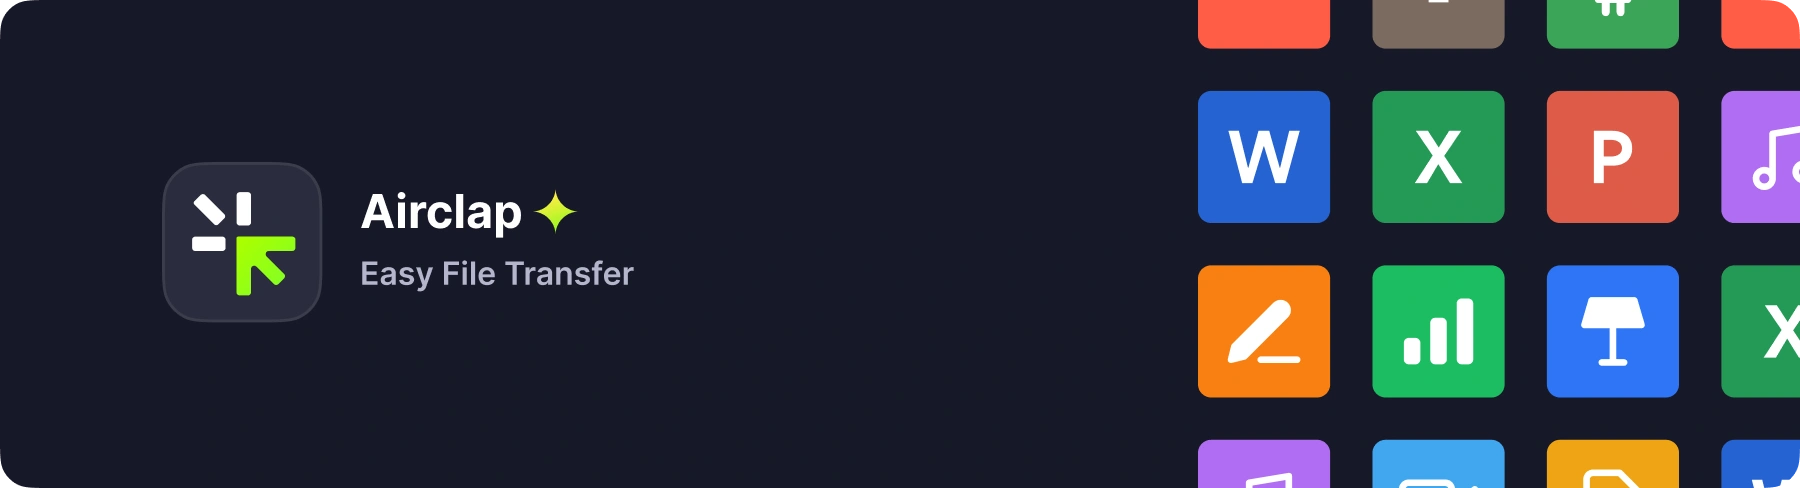
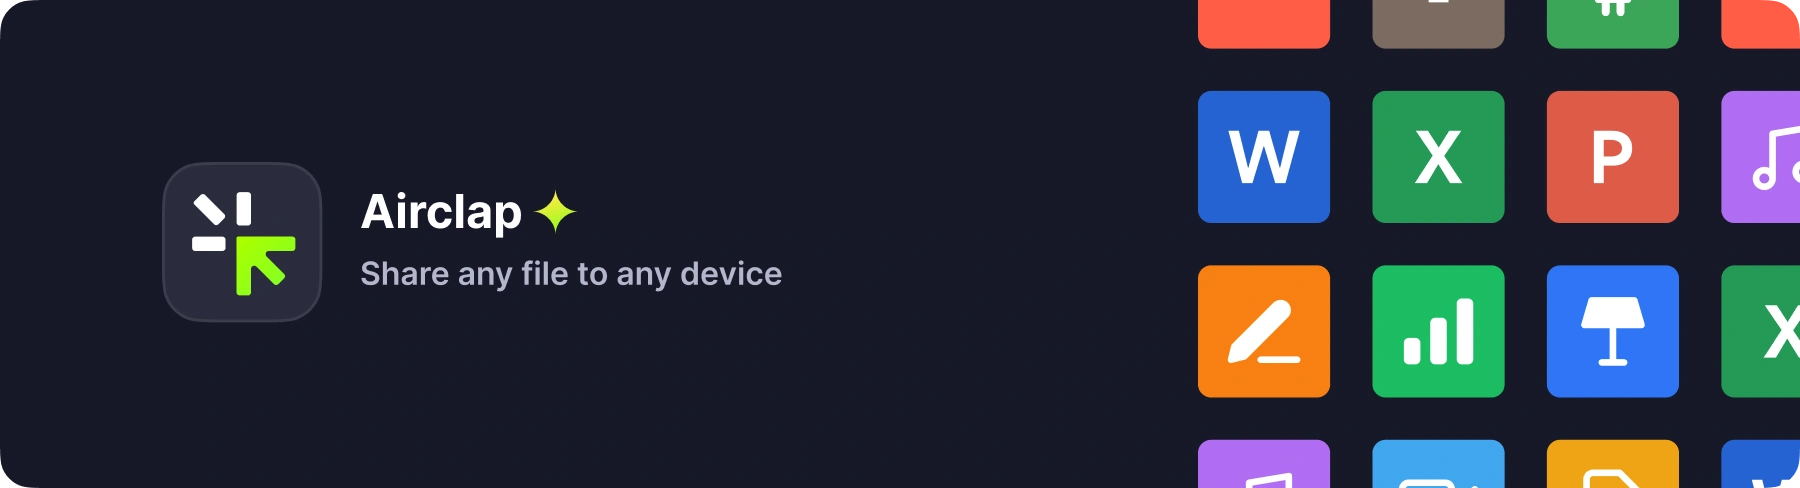
done

Changed region(s): [[0.1867, 0.5225, 0.4356, 0.584]]

diff --git a/README.md b/README.md
@@ -1,6 +1,6 @@
 [![banner](images/banner.webp)](https://www.airclap.app)
 # Airclap
-Freely share files within the local network - cross devices, minimalist, and user-friendly. We hope you can enjoy life instead of wasting time on file transfers.
+Share any file to any device – cross systems and devices, ultra fast and easy to use. We hope you can enjoy life instead of wasting time on file transfers.
 
 ## Homepage
 [airclap.app](https://www.airclap.app)
@@ -21,7 +21,7 @@ Freely share files within the local network - cross devices, minimalist, and use
 #### 🔮 &nbsp;Morden User Interface
 - Simplified and user-friendly transfer experience
 - Clear and intuitive feedback
-#### ⚡ &nbsp;Hyper-Fast Transfer Speed
+#### ⚡ &nbsp;Ultra Fast Transfer Speed
 - Maximum transfer speed available on the local network
 - Highly stable transmission process
 - real-time status
